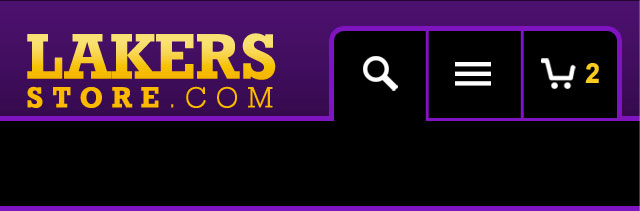
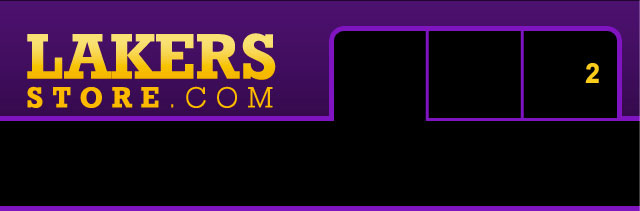
Changes I have made

Changed region(s): [[0.6875, 0.2844, 0.7812, 0.4265], [0.5625, 0.2559, 0.625, 0.4265], [0.8438, 0.2559, 0.9062, 0.4265]]

diff --git a/scripts/sections/header.ts b/scripts/sections/header.ts
@@ -6,4 +6,11 @@ $$('body') {
  $$("._header"){
  inject_top( read("header.html") )
  }
+ $$("#mw_header") {
+insert("div", class: "_icons_bar") {
+insert("div", class: "sprites-search")
+insert("div", class: "sprites-white-info")
+insert("div", class: "sprites-white-cart")
+}
+}
  }

diff --git a/assets/stylesheets/main.scss b/assets/stylesheets/main.scss
@@ -10,6 +10,9 @@
 // Site wide variables
 @import "globals/_variables.scss";
 
+// Site Sprite Styles
+@import "globals/_sprites";
+
 // Header & Footer
 @import "sections/_header";
 @import "sections/_footer";
